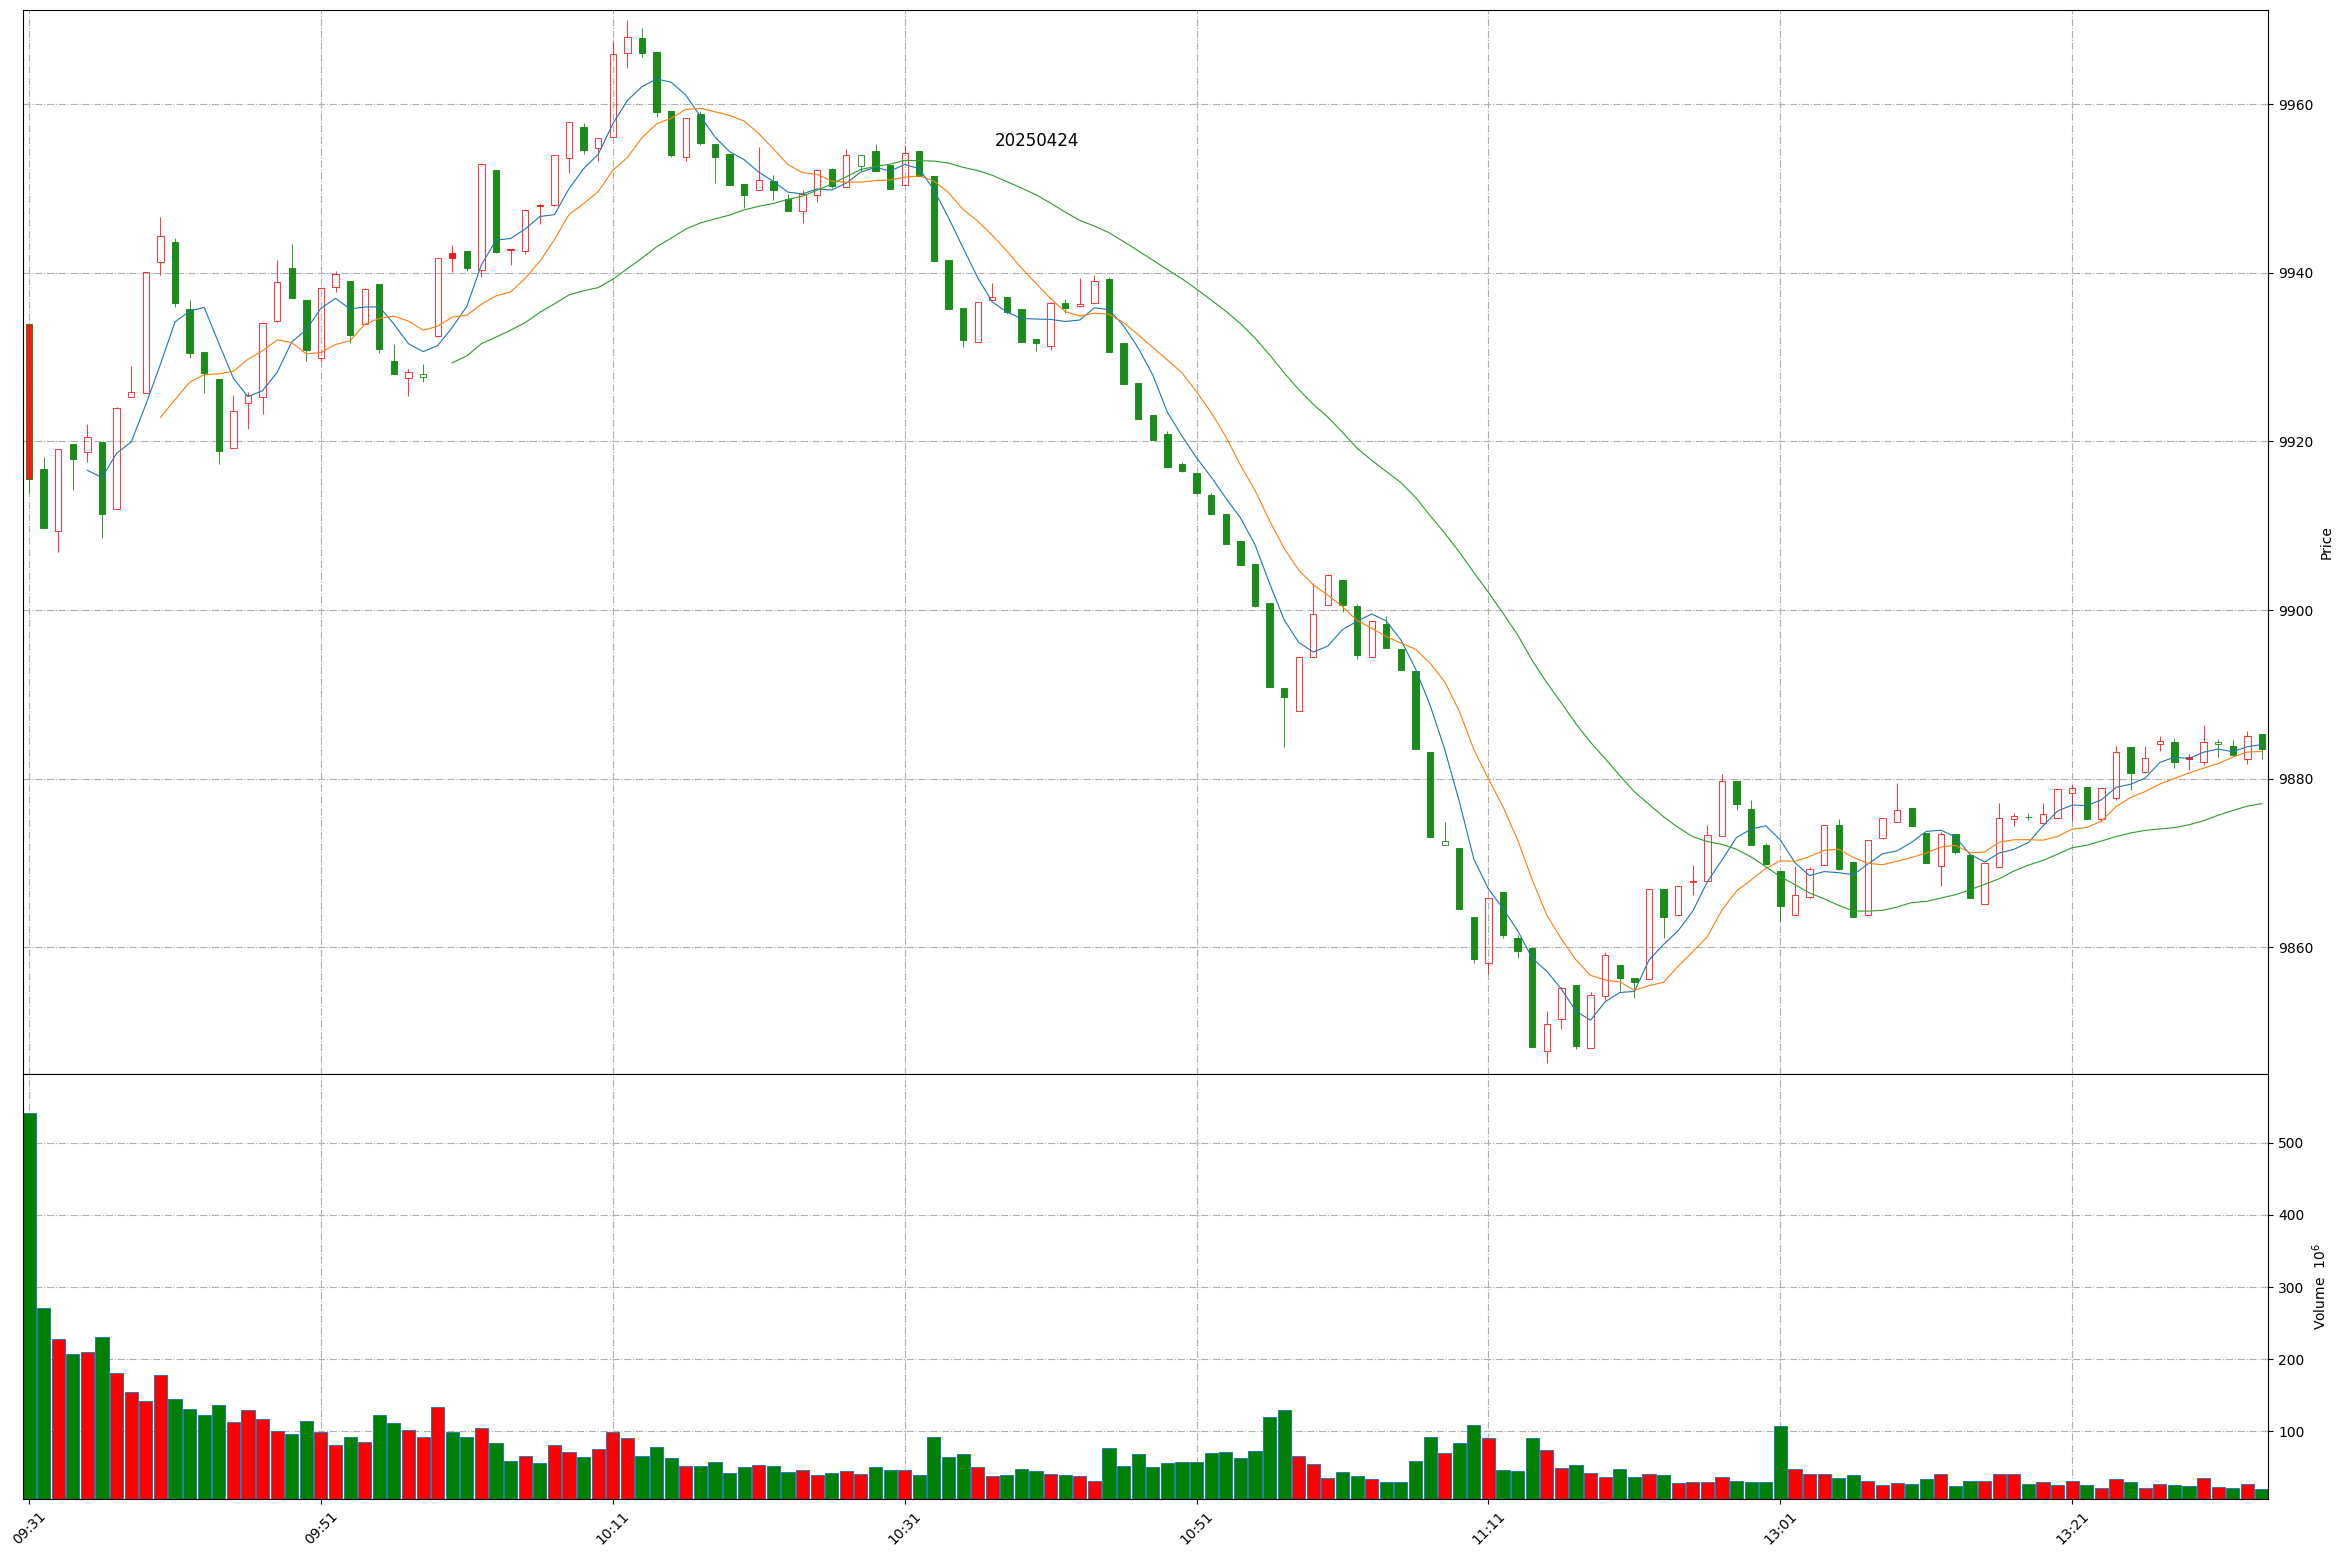
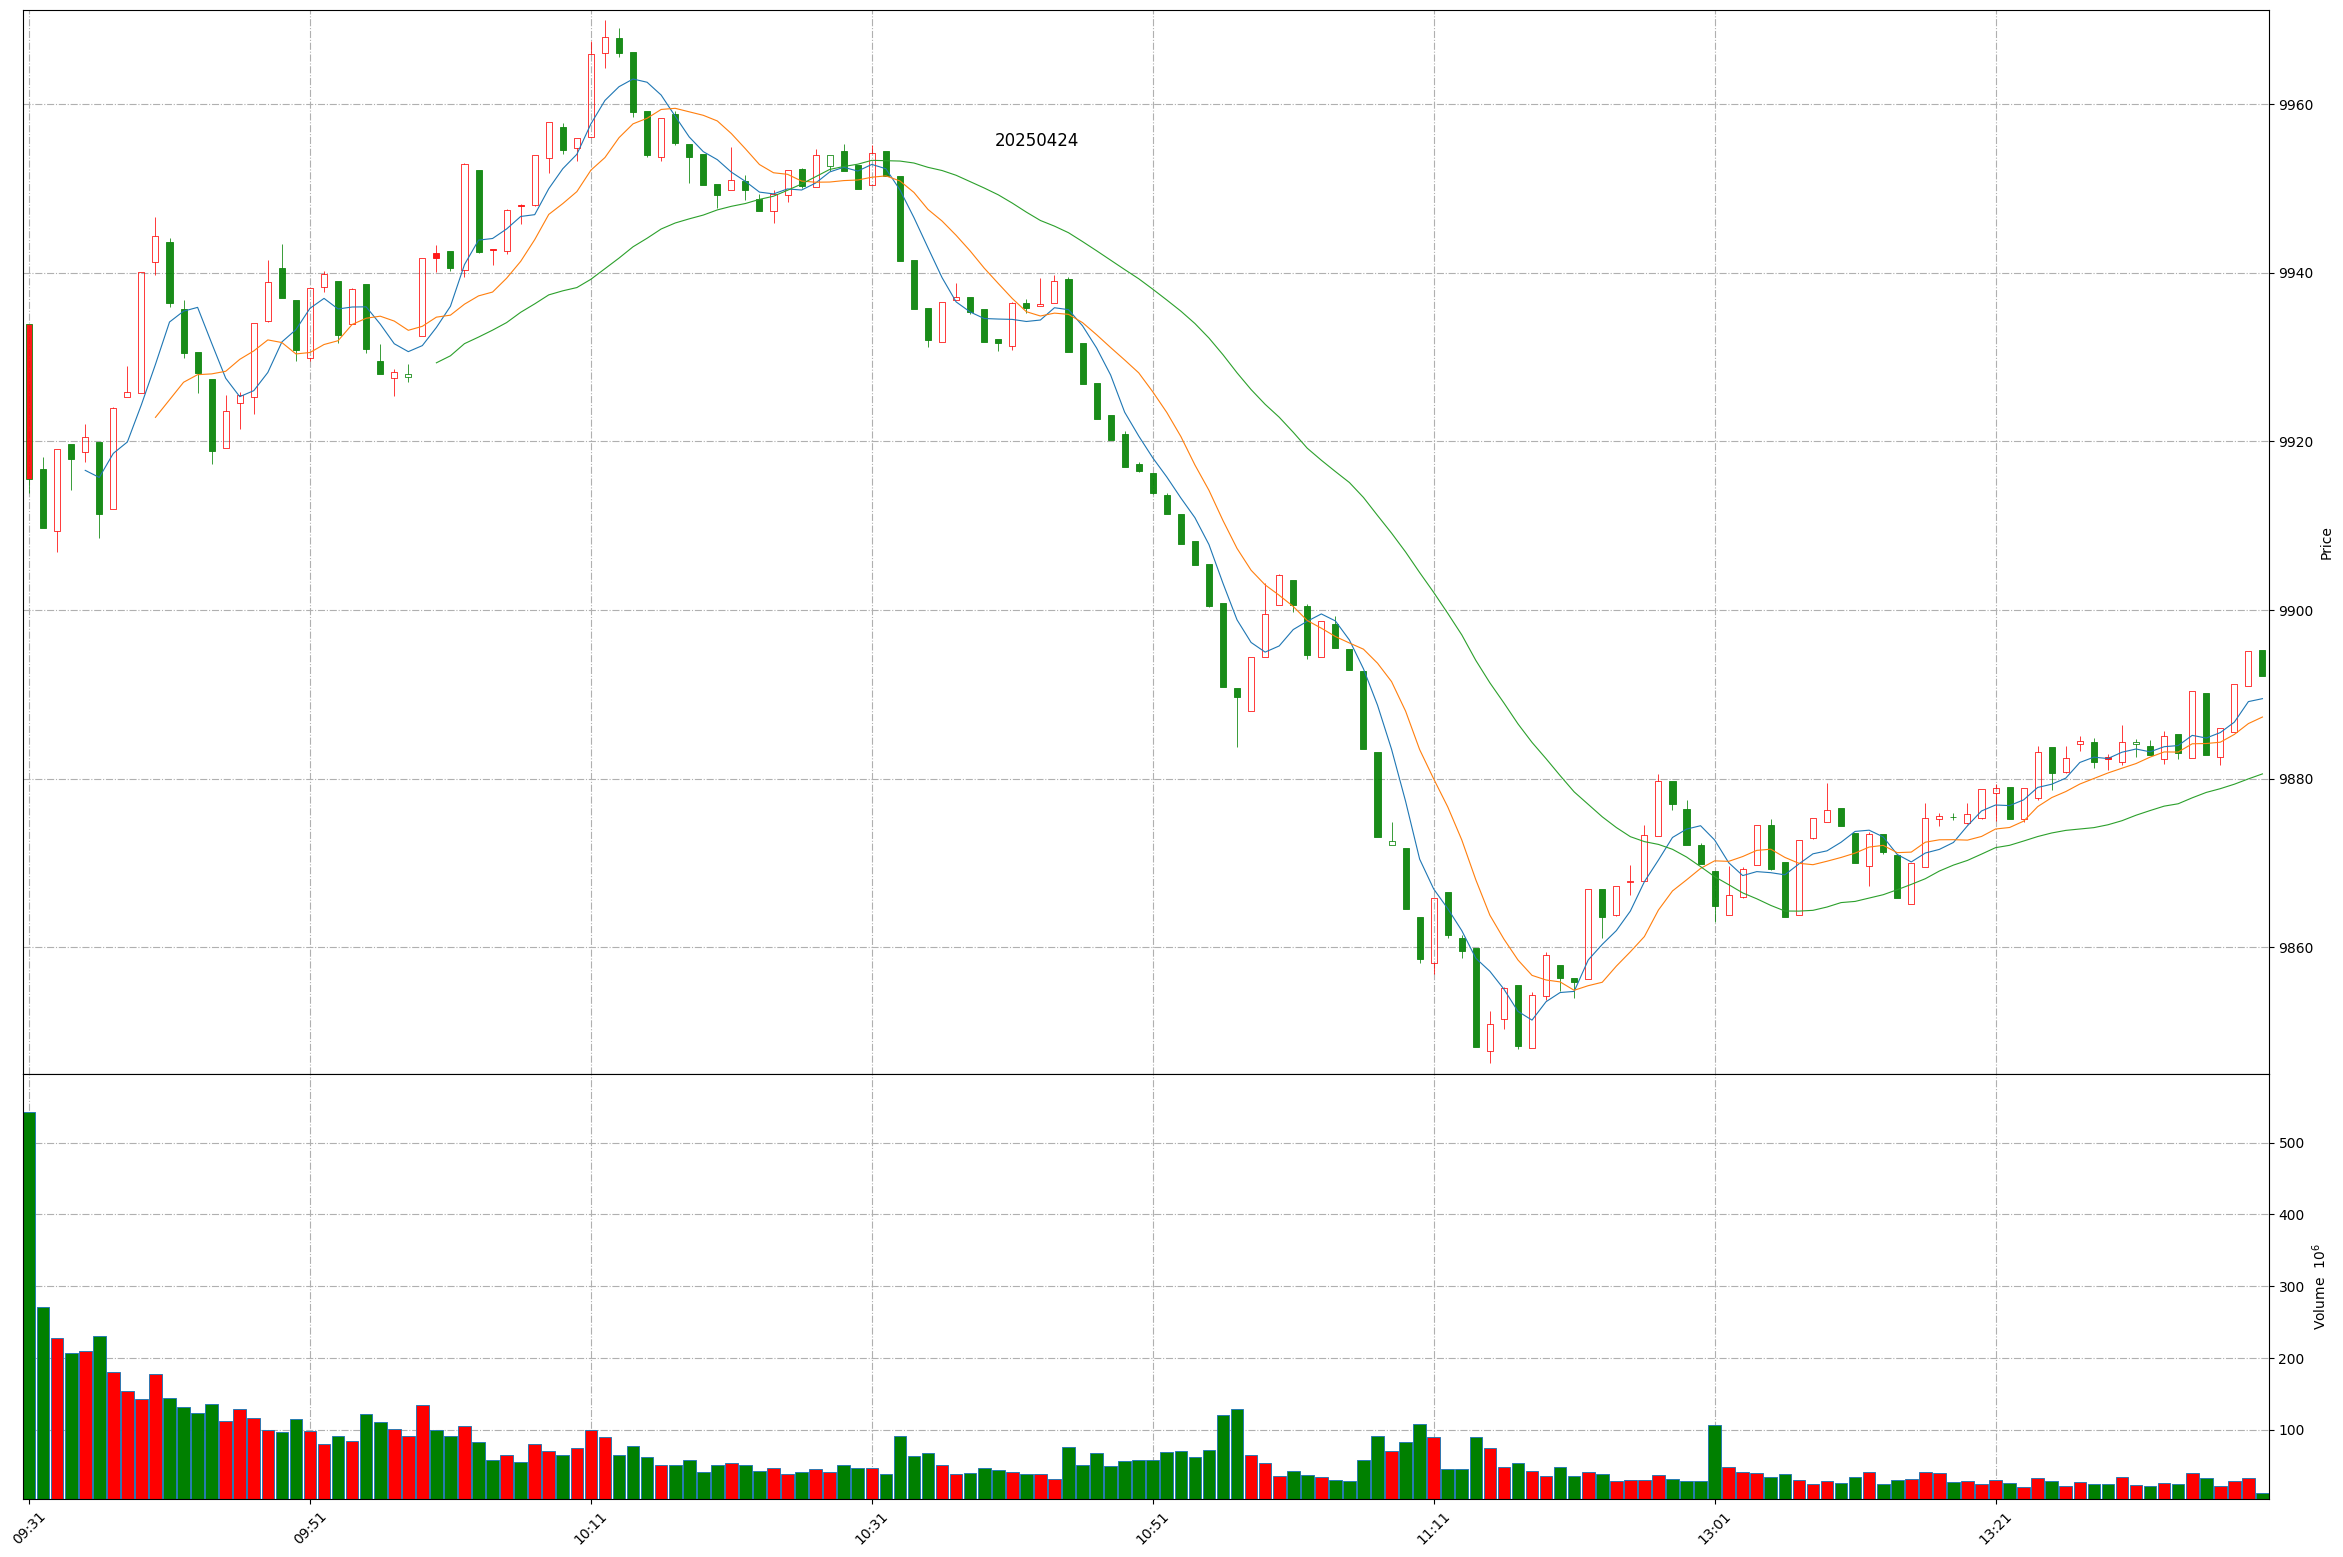
Github action update at 2025-04-24 13:39:39.

Changed region(s): [[0.0623, 0.0308, 0.9659, 0.6782], [0.0, 0.8632, 0.9659, 0.9865], [0.0312, 0.2775, 0.0623, 0.3391]]

diff --git a/README.md b/README.md
@@ -1,11 +1,11 @@
 
 # Daily-A-share-market-quotes 每日 A 股指数（5min 更新）- 20250424
 
-### 上证指数 20250424 13:33
+### 上证指数 20250424 13:39
 ![](./fig/2025/4/20250424-sh000001.png)
 
-### 深证成指 20250424 13:33
+### 深证成指 20250424 13:39
 ![](./fig/2025/4/20250424-sz399001.png)
 
-### 北证50 20250424 13:33
+### 北证50 20250424 13:39
 ![](./fig/2025/4/20250424-bj899050.png)
